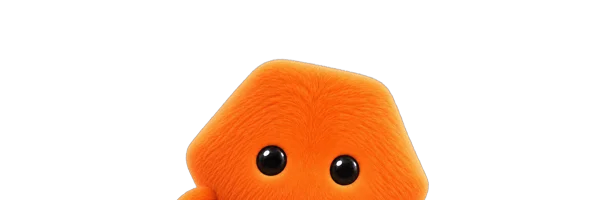
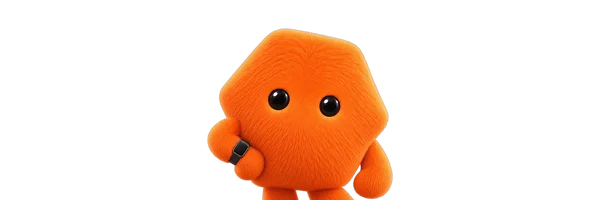
Make every guide mascot the same size and stop the peeking ones from clipping
All guide images are now cropped the same way and sized by height, so each
tour mascot looks equally large. The costs and purple peeking mascots get
room above them so the float animation no longer cuts their heads, and the
orange one rises to show its watch. Google's missing billing table counts as
no data yet instead of an error.

Changed region(s): [[0.27, 0.12, 0.72, 1.0]]

diff --git a/front-end/src/components/GuideTour.css b/front-end/src/components/GuideTour.css
@@ -13,7 +13,7 @@
   position: fixed; display: flex; align-items: flex-end; gap: 6px;
   transition: left .55s cubic-bezier(.3, .8, .3, 1), top .55s cubic-bezier(.3, .8, .3, 1);
 }
-.tourMascot { flex: 0 0 auto; width: 118px; height: auto; filter: drop-shadow(0 8px 18px var(--tour-aura, rgba(40, 133, 255, .45))); animation: tourIdle 2.4s ease-in-out infinite; }
+.tourMascot { flex: 0 0 auto; width: auto; height: 104px; filter: drop-shadow(0 8px 18px var(--tour-aura, rgba(40, 133, 255, .45))); animation: tourIdle 2.4s ease-in-out infinite; }
 .tourGuide.isMoving .tourMascot { animation: tourHop .38s ease-in-out infinite; }
 
 .tourBubble {
@@ -44,7 +44,7 @@
   display: flex; align-items: center; gap: 8px; transition: left .28s ease;
 }
 body.sidebar-collapsed .tourLauncher { left: 112px; }
-.tourLauncher img { width: 76px; height: auto; filter: drop-shadow(0 6px 12px var(--tour-aura, rgba(40, 133, 255, .35))); transition: transform .2s ease; animation: tourIdle 2.4s ease-in-out infinite; }
+.tourLauncher img { width: auto; height: 68px; filter: drop-shadow(0 6px 12px var(--tour-aura, rgba(40, 133, 255, .35))); transition: transform .2s ease; animation: tourIdle 2.4s ease-in-out infinite; }
 .tourLauncher:hover img, .tourLauncher:focus-visible img { transform: scale(1.08) rotate(-4deg); }
 .tourLauncherHint {
   opacity: 0; transform: translateX(-6px); transition: opacity .2s ease, transform .2s ease; pointer-events: none;
@@ -61,8 +61,8 @@ body.sidebar-collapsed .tourLauncher { left: 112px; }
 
 @media (max-width: 900px) {
   .tourLauncher, body.sidebar-collapsed .tourLauncher { left: 12px; bottom: 12px; }
-  .tourLauncher img { width: 60px; }
-  .tourMascot { width: 84px; }
+  .tourLauncher img { height: 54px; }
+  .tourMascot { height: 76px; }
 }
 @media (prefers-reduced-motion: reduce) {
   .tourMascot, .tourLauncher img, .tourBubble, .tourSpot, .tourDim { animation: none !important; }

diff --git a/back-end/src/services/costReport.js b/back-end/src/services/costReport.js
@@ -126,7 +126,7 @@ async function googleCosts(fromDay, toDay) {
     return byDay;
   } catch (error) {
     // The export table only appears once Google writes its first day.
-    if (/not found|matches no table/i.test(error.message)) return {};
+    if (/not found|match(es)? (no|any) table/i.test(error.message)) return {};
     throw error;
   }
 }
